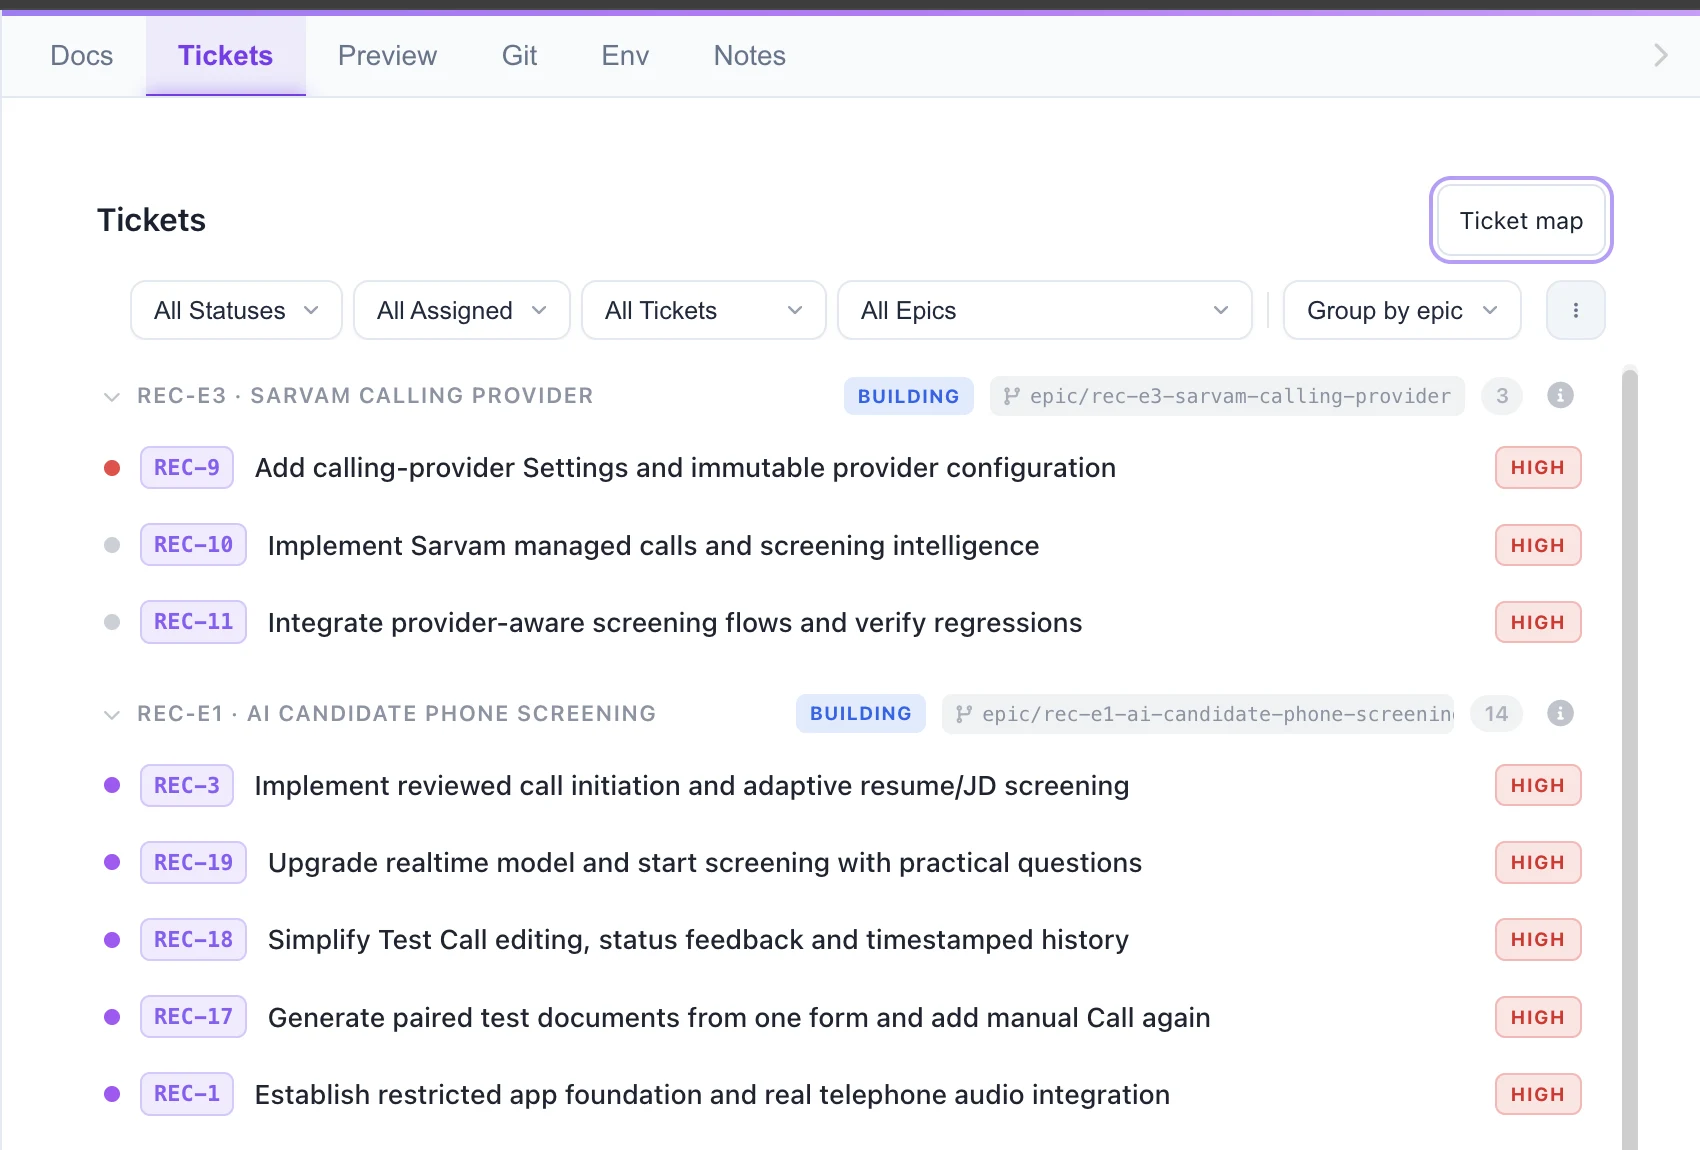
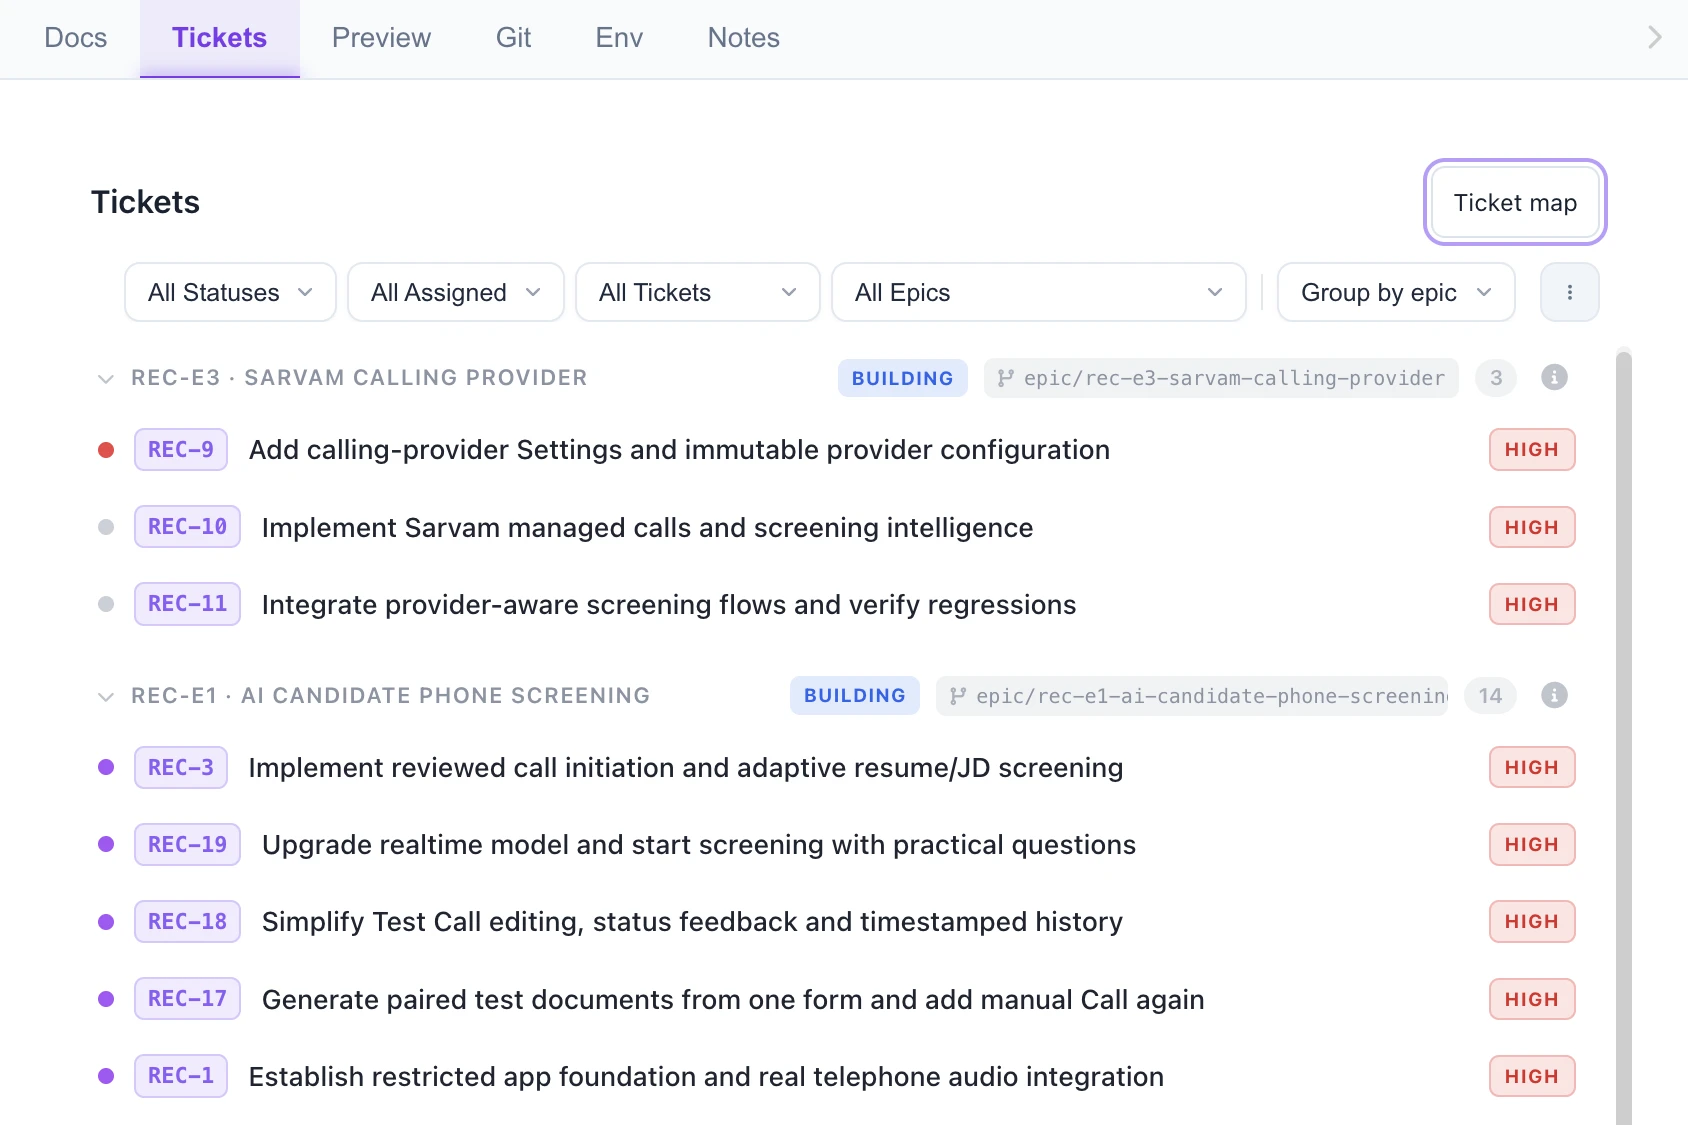
Site: clean screenshot crops, PRD + architecture from the side panel, original hero
- Re-cropped every product screenshot: no dark top strip, no purple
  accent line, no left border, no scrollbar sliver, no floating Comments
  button. All hero shots share one 3:2 frame so they stack cleanly.
- Architecture and key-flows images now come from the Docs side panel, not
  the centred modal (which brought rounded corners and "Esc to close")
- Hero slideshow: PRD, Architecture, Tickets, Live preview
- Chapter 01 shows the real PRD instead of the docs list
- Restored the original hero headline and subline; dropped the grey
  first line that read poorly on the tinted background
- Renamed image files so browsers can't serve the old crops from cache

diff --git a/src/templates/pages/home.tsx b/src/templates/pages/home.tsx
@@ -20,11 +20,13 @@ const S = "/public/images/screenshots";
 
 /** Hero product frame: one real screen per chapter. [src, tab label, alt] */
 const HERO_SHOTS: Array<[src: string, label: string, alt: string]> = [
-  [`${S}/lfg-technical-analysis.webp`, "Architecture",
+  [`${S}/lfg-prd.webp`, "PRD",
+   "A requirements document written in LFG: problem, goal and what will be built, in plain language"],
+  [`${S}/lfg-analysis.webp`, "Architecture",
    "A technical analysis written by LFG: what is being built and how, in plain language"],
-  [`${S}/lfg-tickets.webp`, "Tickets",
+  [`${S}/lfg-ticket-board.webp`, "Tickets",
    "LFG tickets grouped by epic, each epic on its own branch, with priorities"],
-  [`${S}/lfg-preview.webp`, "Live preview",
+  [`${S}/lfg-preview-tab.webp`, "Live preview",
    "The app running inside LFG's Preview tab at its own preview URL"],
 ];
 
@@ -63,7 +65,7 @@ const frame = (src: string, alt: string, label: string) => html`
   <div class="shot">
     <div class="shot-bar">
       <span class="shot-dot bg-red-400/70"></span><span class="shot-dot bg-amber-400/70"></span><span class="shot-dot bg-emerald-400/70"></span>
-      <span class="ml-2 text-xs font-mono text-slate-400">${label}</span>
+      <span class="ml-2 text-xs font-mono text-slate-400 truncate">${label}</span>
     </div>
     <img src="${src}" alt="${alt}" loading="lazy" class="w-full block" />
   </div>`;
@@ -73,10 +75,10 @@ export const HomePage = ({ posts = [] }: { posts?: BlogPost[]; turnstileSiteKey?
 <html lang="en" class="scroll-smooth">
 <head>
 ${SiteHead({
-  title: "LFG | The Software Factory Agent: decide what to build, prove it works",
+  title: "LFG | The Software Factory Agent: decide what to build, prove what got built",
   description: "LFG scopes the work, makes the architecture decisions, turns them into tickets and runs Claude Code, Codex and Pi across them in parallel. Every change comes back running in a live preview, tested against what you asked for.",
   path: "/",
-  image: `${S}/lfg-preview.webp`,
+  image: `${S}/lfg-preview-tab.webp`,
 })}
 </head>
 <body class="text-slate-900 font-sans selection:bg-brand-600 selection:text-white">
@@ -96,12 +98,12 @@ ${SiteNav({ active: "home" })}
           <span class="w-2 h-2 rounded-full bg-brand-500 animate-pulse"></span>
           <span class="text-xs font-bold text-slate-600 uppercase tracking-wider">The software factory agent</span>
         </div>
-        <h1 class="font-display font-semibold text-4xl sm:text-5xl lg:text-[3.5rem] leading-[1.06] tracking-tight animate-fade-up">
-          <span class="text-slate-400">Your agents can build anything.</span><br>
-          <span class="text-slate-900">LFG decides what's worth building, and proves it works.</span>
+        <h1 class="font-display font-semibold text-4xl sm:text-5xl xl:text-6xl leading-[1.08] tracking-tight text-slate-900 animate-fade-up">
+          Decide what to build.<br>
+          <span class="text-transparent bg-clip-text bg-gradient-to-r from-indigo-600 to-pink-500">Prove what got built.</span>
         </h1>
         <p class="text-lg sm:text-xl text-slate-600 mt-7 leading-relaxed max-w-3xl animate-fade-up">
-          Hand LFG an idea, a spec or a backlog. It scopes the work, makes the architecture decisions, cuts the tickets, and runs Claude Code, Codex and Pi across them in parallel. Every change comes back running in a live preview, tested against what you asked for.
+          LFG automates the whole software lifecycle: scoping, planning, documentation, ticketing, implementation, testing and QA. It runs Claude Code, Codex and Pi sessions in parallel sandboxes. Every change is running in front of you before anyone reviews it.
         </p>
         <div class="mt-9 flex flex-col sm:flex-row gap-3 animate-fade-up">
           <a href="/auth/register" class="px-7 py-3.5 rounded-full bg-slate-900 text-white font-semibold hover:bg-slate-800 transition-colors inline-flex items-center justify-center gap-2">
@@ -129,7 +131,7 @@ ${SiteNav({ active: "home" })}
                 </button>`)}
             </div>
           </div>
-          <div class="relative aspect-[1700/1150] bg-white">
+          <div class="relative aspect-[3/2] bg-white">
             ${HERO_SHOTS.map(([src, , alt], i) => html`
               <img src="${src}" alt="${alt}" ${i === 0 ? "" : 'loading="lazy"'} data-shot="${i}"
                    class="absolute inset-0 w-full h-full object-cover object-top transition-opacity duration-500 ${i === 0 ? "opacity-100" : "opacity-0"}" />`)}
@@ -186,7 +188,7 @@ ${SiteNav({ active: "home" })}
           </p>
         </div>
         <div class="lg:col-span-7 min-w-0">
-          ${frame(`${S}/lfg-docs.webp`, "LFG documents grouped by epic: requirements and technical analysis for each", "your-project / docs")}
+          ${frame(`${S}/lfg-prd.webp`, "A requirements document in LFG: problem, goal and what will be built, in plain language", "pilot requirements")}
         </div>
       </div>
     </div>
@@ -205,11 +207,11 @@ ${SiteNav({ active: "home" })}
 
       <div class="grid grid-cols-1 lg:grid-cols-2 gap-6 items-start">
         <div class="min-w-0">
-          ${frame(`${S}/lfg-technical-analysis.webp`, "An LFG technical analysis: what we are building and how we will build it, in plain language", "technical analysis")}
+          ${frame(`${S}/lfg-analysis.webp`, "An LFG technical analysis: what we are building and how we will build it, in plain language", "technical analysis")}
           <p class="text-sm text-slate-500 mt-3">The plan in plain language, linked to the requirements it implements.</p>
         </div>
         <div class="min-w-0 lg:mt-16">
-          ${frame(`${S}/lfg-architecture-flow.webp`, "A sequence diagram of a key flow in an LFG technical analysis", "key flows")}
+          ${frame(`${S}/lfg-key-flows.webp`, "A sequence diagram of a key flow in an LFG technical analysis", "key flows")}
           <p class="text-sm text-slate-500 mt-3">Key flows as sequence diagrams, failure paths included.</p>
         </div>
       </div>
@@ -241,7 +243,7 @@ ${SiteNav({ active: "home" })}
           </div>
         </div>
         <div class="lg:col-span-7 min-w-0">
-          ${frame(`${S}/lfg-tickets.webp`, "LFG tickets grouped by epic, each epic building on its own branch", "your-project / tickets")}
+          ${frame(`${S}/lfg-ticket-board.webp`, "LFG tickets grouped by epic, each epic building on its own branch", "tickets")}
         </div>
       </div>
     </div>
@@ -258,7 +260,7 @@ ${SiteNav({ active: "home" })}
         </p>
       </div>
 
-      ${frame(`${S}/lfg-preview.webp`, "An app built by LFG running inside the Preview tab, at its own preview URL", "your-project / preview")}
+      ${frame(`${S}/lfg-preview-tab.webp`, "An app built by LFG running inside the Preview tab, at its own preview URL", "live preview")}
 
       <div class="mt-10 grid md:grid-cols-3 gap-6">
         <div class="rounded-2xl border border-slate-200 bg-white p-7">

diff --git a/src/templates/pages/agent.tsx b/src/templates/pages/agent.tsx
@@ -19,7 +19,7 @@ const frame = (src: string, alt: string, label: string) => html`
   <div class="shot">
     <div class="shot-bar">
       <span class="shot-dot bg-red-400/70"></span><span class="shot-dot bg-amber-400/70"></span><span class="shot-dot bg-emerald-400/70"></span>
-      <span class="ml-2 text-xs font-mono text-slate-400">${label}</span>
+      <span class="ml-2 text-xs font-mono text-slate-400 truncate">${label}</span>
     </div>
     <img src="${src}" alt="${alt}" loading="lazy" class="w-full block" />
   </div>`;
@@ -83,7 +83,7 @@ ${SiteNav({ active: "agent" })}
           </div>
         </div>
         <div class="min-w-0 lg:col-span-6 animate-fade-up" style="animation-delay:.12s">
-          ${frame(`${S}/lfg-tickets.webp`, "LFG tickets grouped by epic, each epic building on its own branch", "your-project / tickets")}
+          ${frame(`${S}/lfg-ticket-board.webp`, "LFG tickets grouped by epic, each epic building on its own branch", "your-project / tickets")}
         </div>
       </div>
       <div class="mt-14 animate-fade-up">${LifecycleRail()}</div>
@@ -101,8 +101,8 @@ ${SiteNav({ active: "agent" })}
         </p>
       </div>
       <div class="grid grid-cols-1 lg:grid-cols-2 gap-6 items-start">
-        <div class="min-w-0">${frame(`${S}/lfg-technical-analysis.webp`, "An LFG technical analysis in plain language", "technical analysis")}</div>
-        <div class="min-w-0 lg:mt-16">${frame(`${S}/lfg-architecture-flow.webp`, "A sequence diagram of a key flow", "key flows")}</div>
+        <div class="min-w-0">${frame(`${S}/lfg-analysis.webp`, "An LFG technical analysis in plain language", "technical analysis")}</div>
+        <div class="min-w-0 lg:mt-16">${frame(`${S}/lfg-key-flows.webp`, "A sequence diagram of a key flow", "key flows")}</div>
       </div>
     </div>
   </section>
@@ -148,7 +148,7 @@ ${SiteNav({ active: "agent" })}
           No pulling branches, no local setup, no "works on my machine". LFG stands the app up in its sandbox and opens it in a browser right next to the ticket, at its own URL, with its logs, its databases and its setup steps a click away.
         </p>
       </div>
-      <div class="mb-10">${frame(`${S}/lfg-preview.webp`, "An app built by LFG running in the Preview tab at its own URL", "your-project / preview")}</div>
+      <div class="mb-10">${frame(`${S}/lfg-preview-tab.webp`, "An app built by LFG running in the Preview tab at its own URL", "your-project / preview")}</div>
       <div class="grid sm:grid-cols-2 lg:grid-cols-5 gap-4">
         ${PREVIEW_STEPS.map(([name, body], i) => html`
           <div class="rounded-2xl border border-slate-200 bg-white p-5">

diff --git a/src/templates/pages/how-it-works.tsx b/src/templates/pages/how-it-works.tsx
@@ -43,7 +43,7 @@ const DETAIL: Record<string, StageDetail> = {
     ],
     outputs: ["Technical analysis", "Sequence diagrams", "Architecture decisions"],
     human: "Your architect reviews the decisions in one sitting. Changing them here costs a conversation, not a rewrite.",
-    shot: [`${S}/lfg-technical-analysis.webp`, "technical analysis", "An LFG technical analysis: what we are building and how, in plain language"],
+    shot: [`${S}/lfg-analysis.webp`, "technical analysis", "An LFG technical analysis: what we are building and how, in plain language"],
   },
   Document: {
     lede: "Everything a good team writes before it builds, written and kept current.",
@@ -54,7 +54,7 @@ const DETAIL: Record<string, StageDetail> = {
     ],
     outputs: ["PRD", "Acceptance criteria", "Technical docs"],
     human: "Agree what done means now, so passing at the end is a fact rather than an opinion.",
-    shot: [`${S}/lfg-docs.webp`, "docs", "LFG documents grouped by epic"],
+    shot: [`${S}/lfg-prd.webp`, "pilot requirements", "A requirements document in LFG: problem, goal and what will be built"],
   },
   Ticket: {
     lede: "The plan becomes a graph of work small enough to build and check on its own.",
@@ -65,7 +65,7 @@ const DETAIL: Record<string, StageDetail> = {
     ],
     outputs: ["Tickets", "Dependency graph", "Board"],
     human: "Reprioritise, split or cut tickets. The plan is yours to shape.",
-    shot: [`${S}/lfg-tickets.webp`, "tickets", "LFG tickets grouped by epic, each epic on its own branch"],
+    shot: [`${S}/lfg-ticket-board.webp`, "tickets", "LFG tickets grouped by epic, each epic on its own branch"],
   },
   Implement: {
     lede: "Coding agents execute the tickets, many at once, each in its own sandbox.",
@@ -96,7 +96,7 @@ const DETAIL: Record<string, StageDetail> = {
     ],
     outputs: ["In-app preview", "Walkthrough recording", "QA verdict"],
     human: "Click through the change yourself before you read the diff.",
-    shot: [`${S}/lfg-preview.webp`, "preview", "An app built by LFG running in the Preview tab at its own URL"],
+    shot: [`${S}/lfg-preview-tab.webp`, "preview", "An app built by LFG running in the Preview tab at its own URL"],
   },
 };
 
